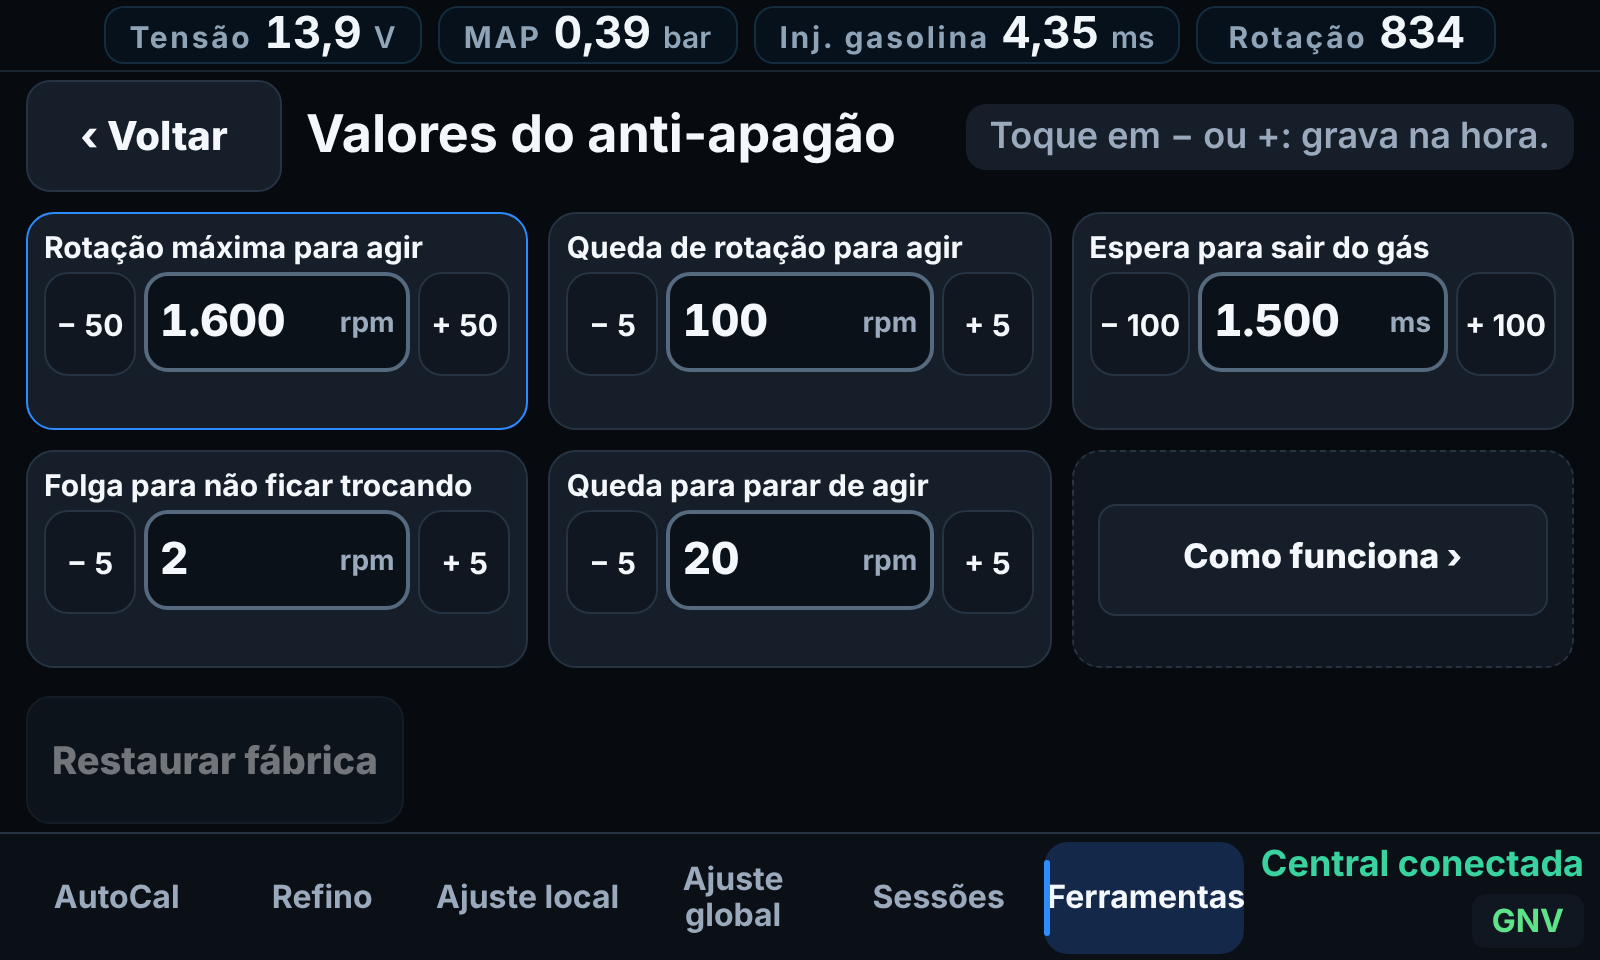
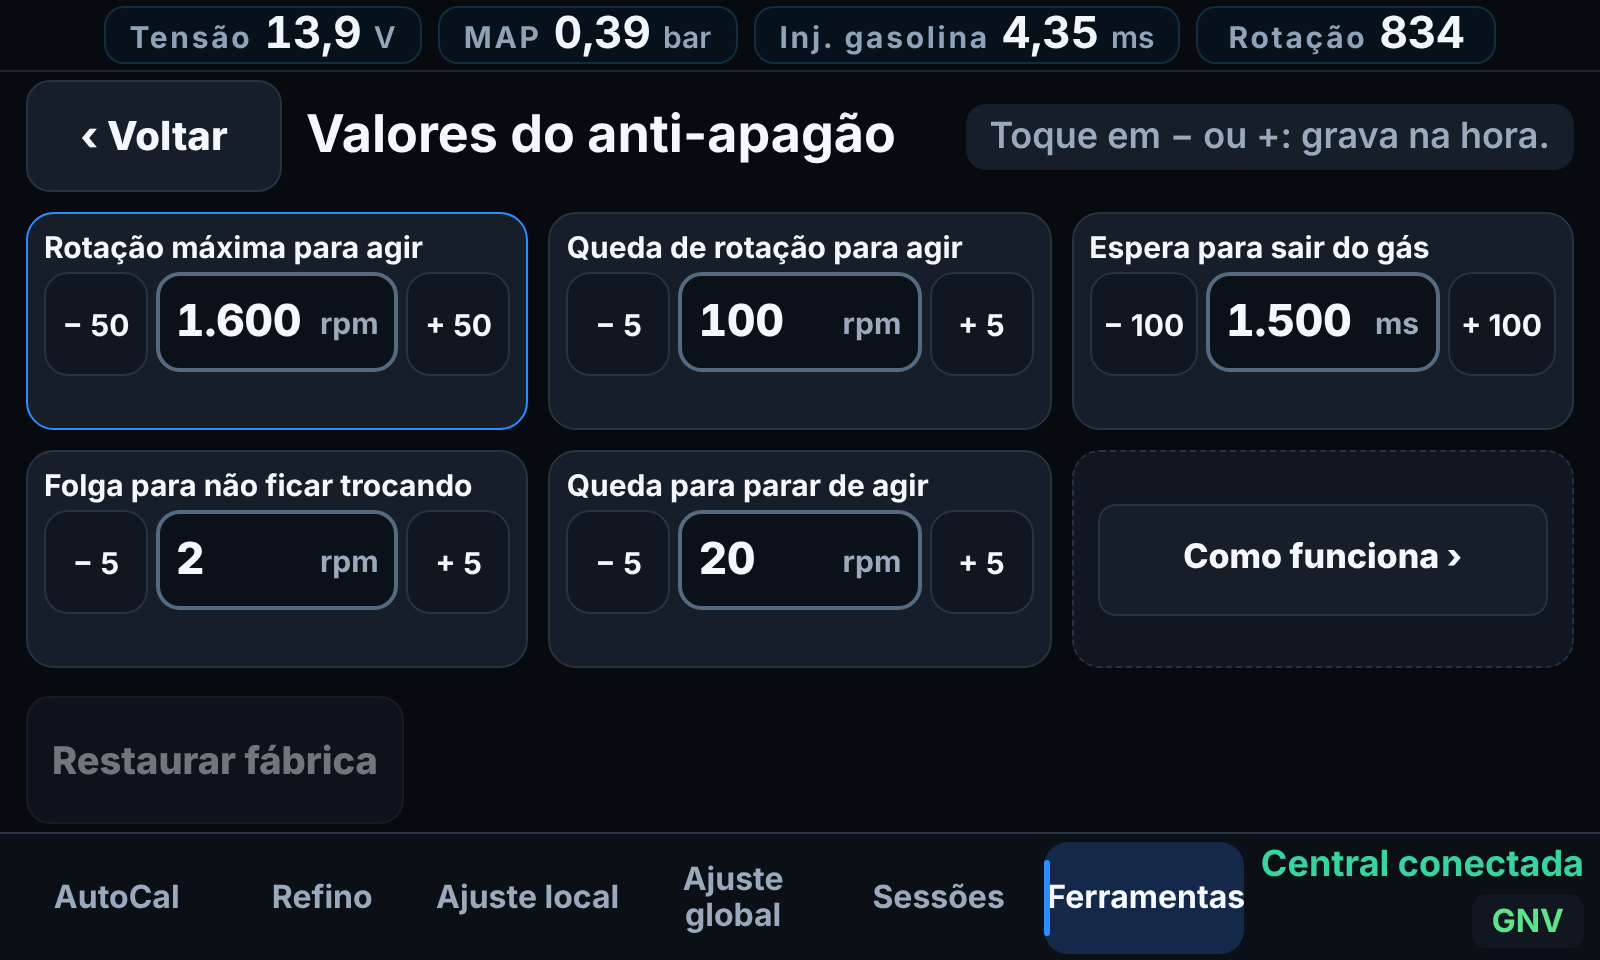
css: card Como funciona vira botão curto em alturas ≤ 660px
Claude-Session: https://claude.ai/code/session_01JEx3o71ikj852jJzY51Gkf

diff --git a/app/src/main/assets/ui/styles-ux-leigo.css b/app/src/main/assets/ui/styles-ux-leigo.css
@@ -357,3 +357,10 @@
   .vv-card .num-box { padding: 0 8px; gap: 6px; }
   .vv-card .num-unit { font-size: 15px; }
 }
+@media (max-height: 660px) {
+  .vv-info .vv-how { display: none; }
+  .vv-info { justify-content: center; }
+  .vv-btn-long { display: none; }
+  .vv-btn-short { display: inline; }
+  .vv-info .secondary { min-height: 56px; font-size: 17px; }
+}
